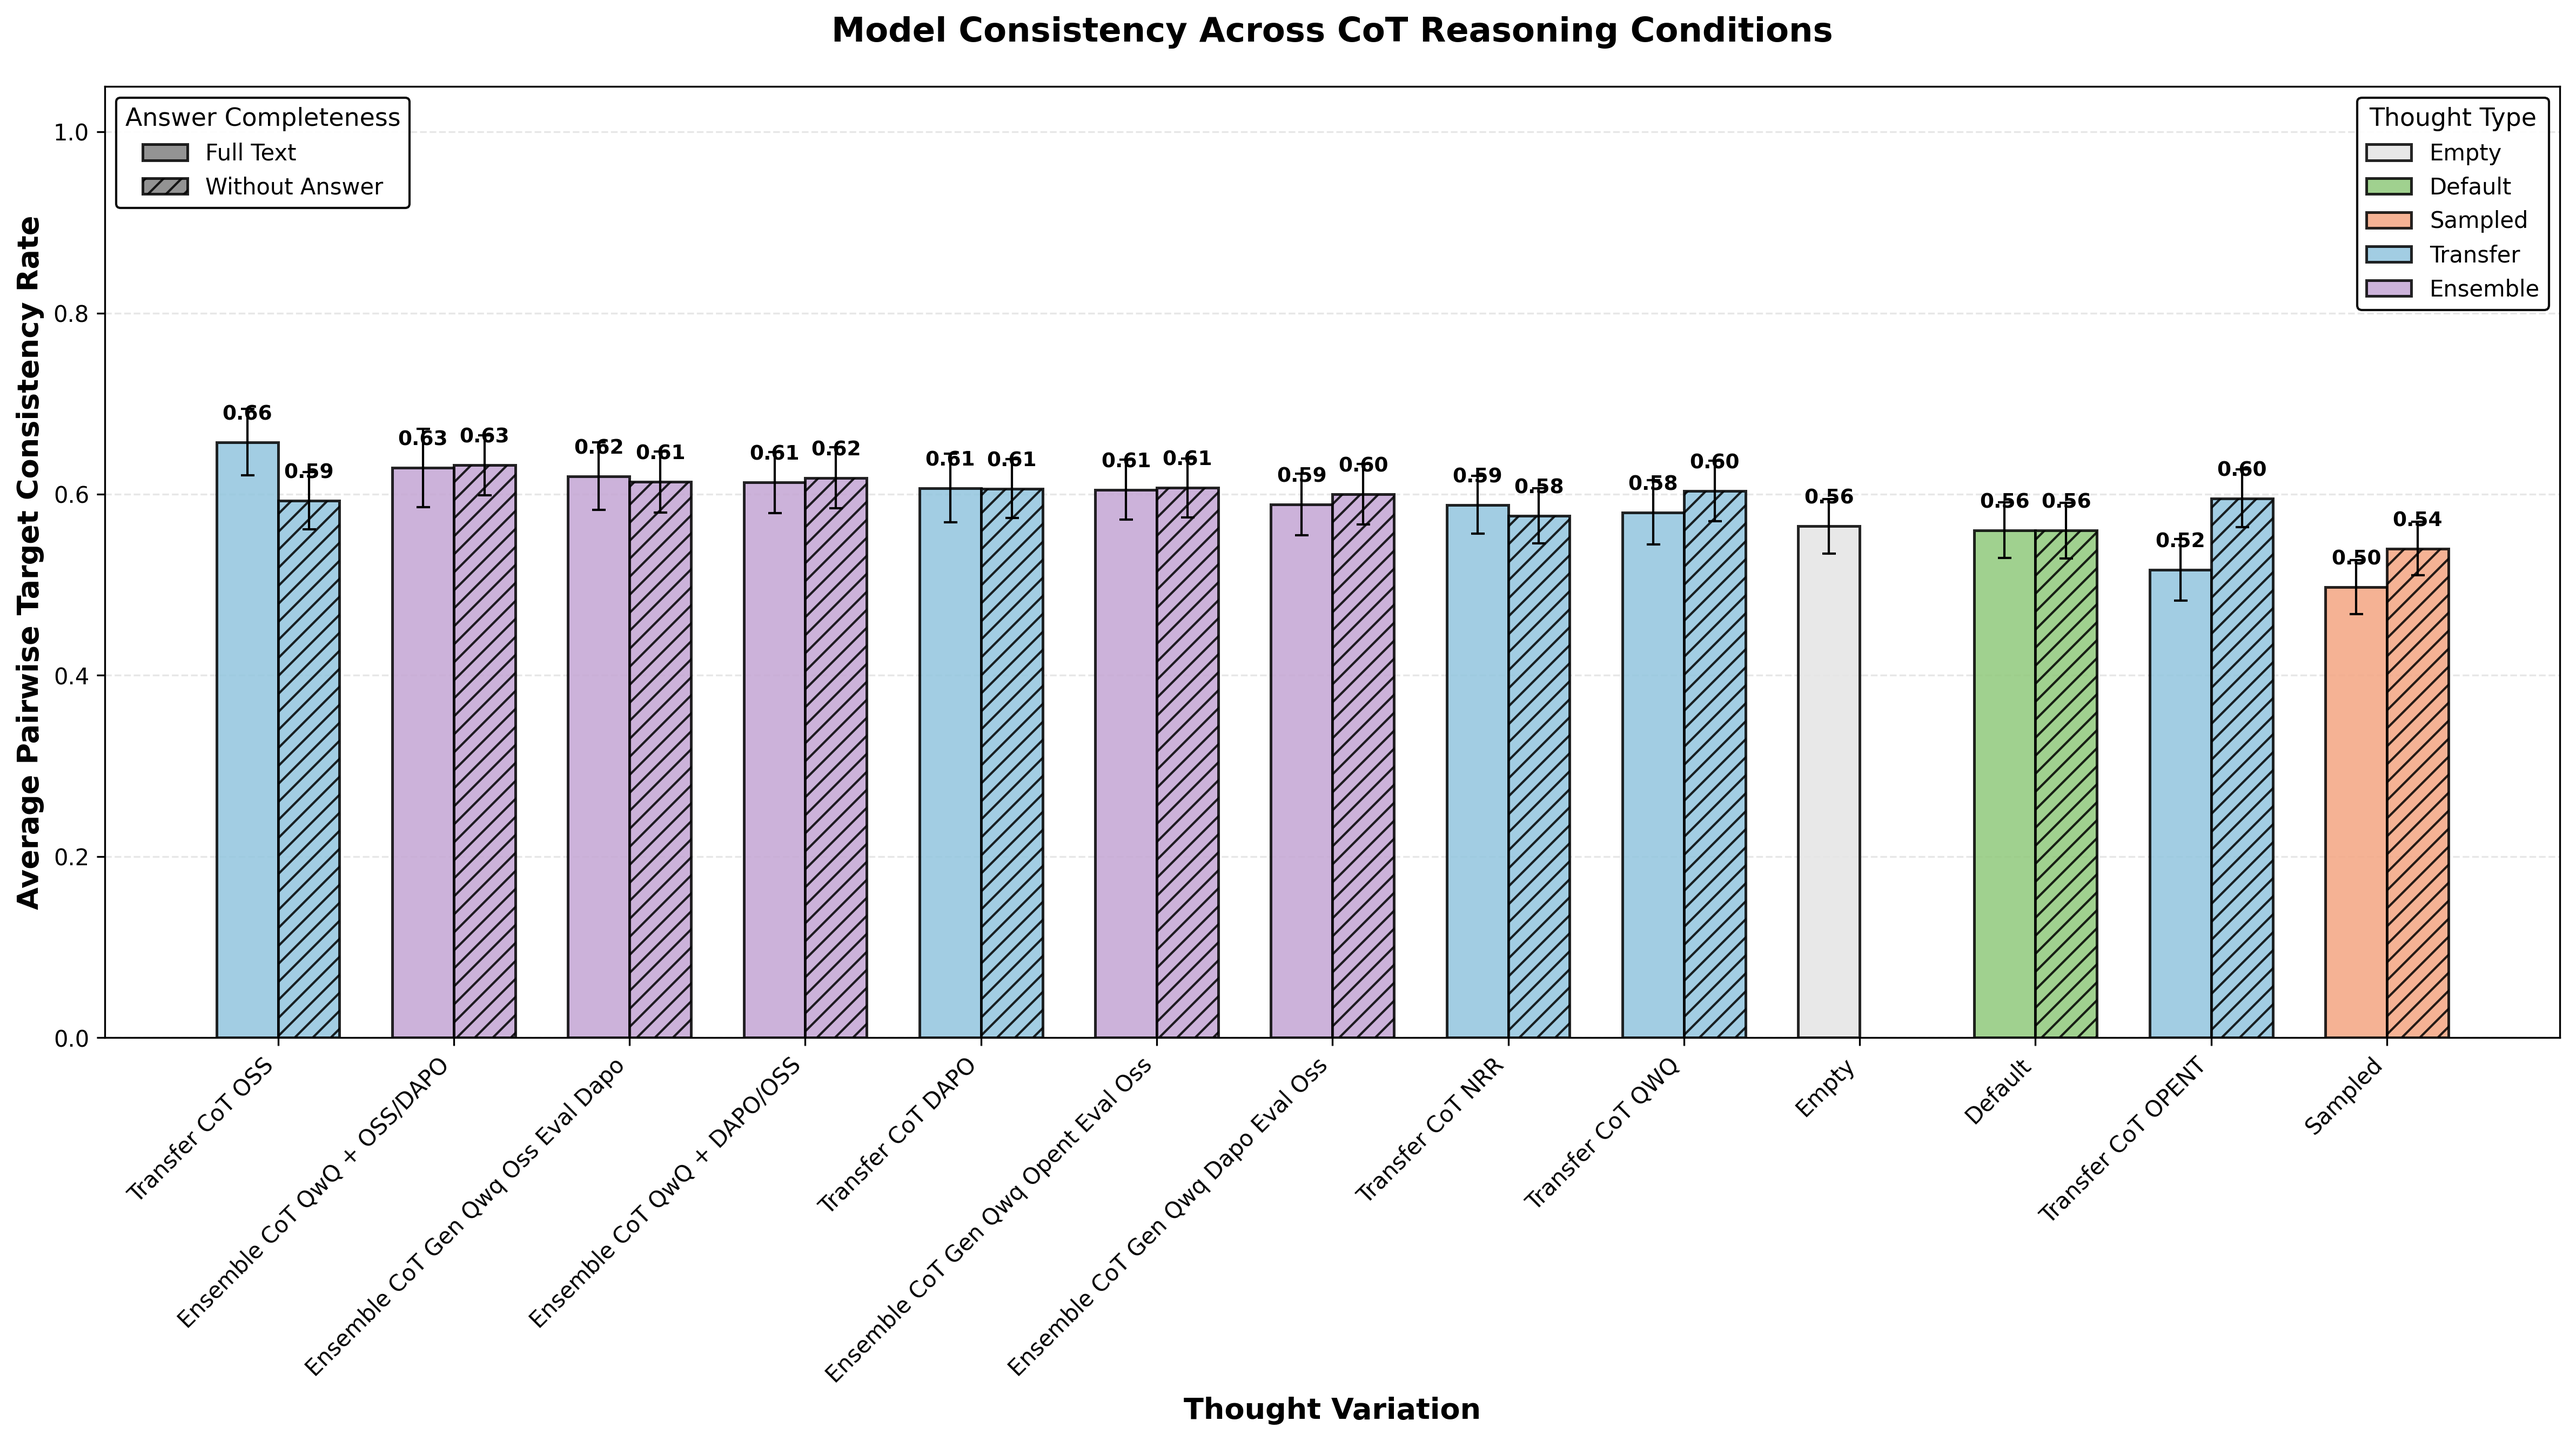
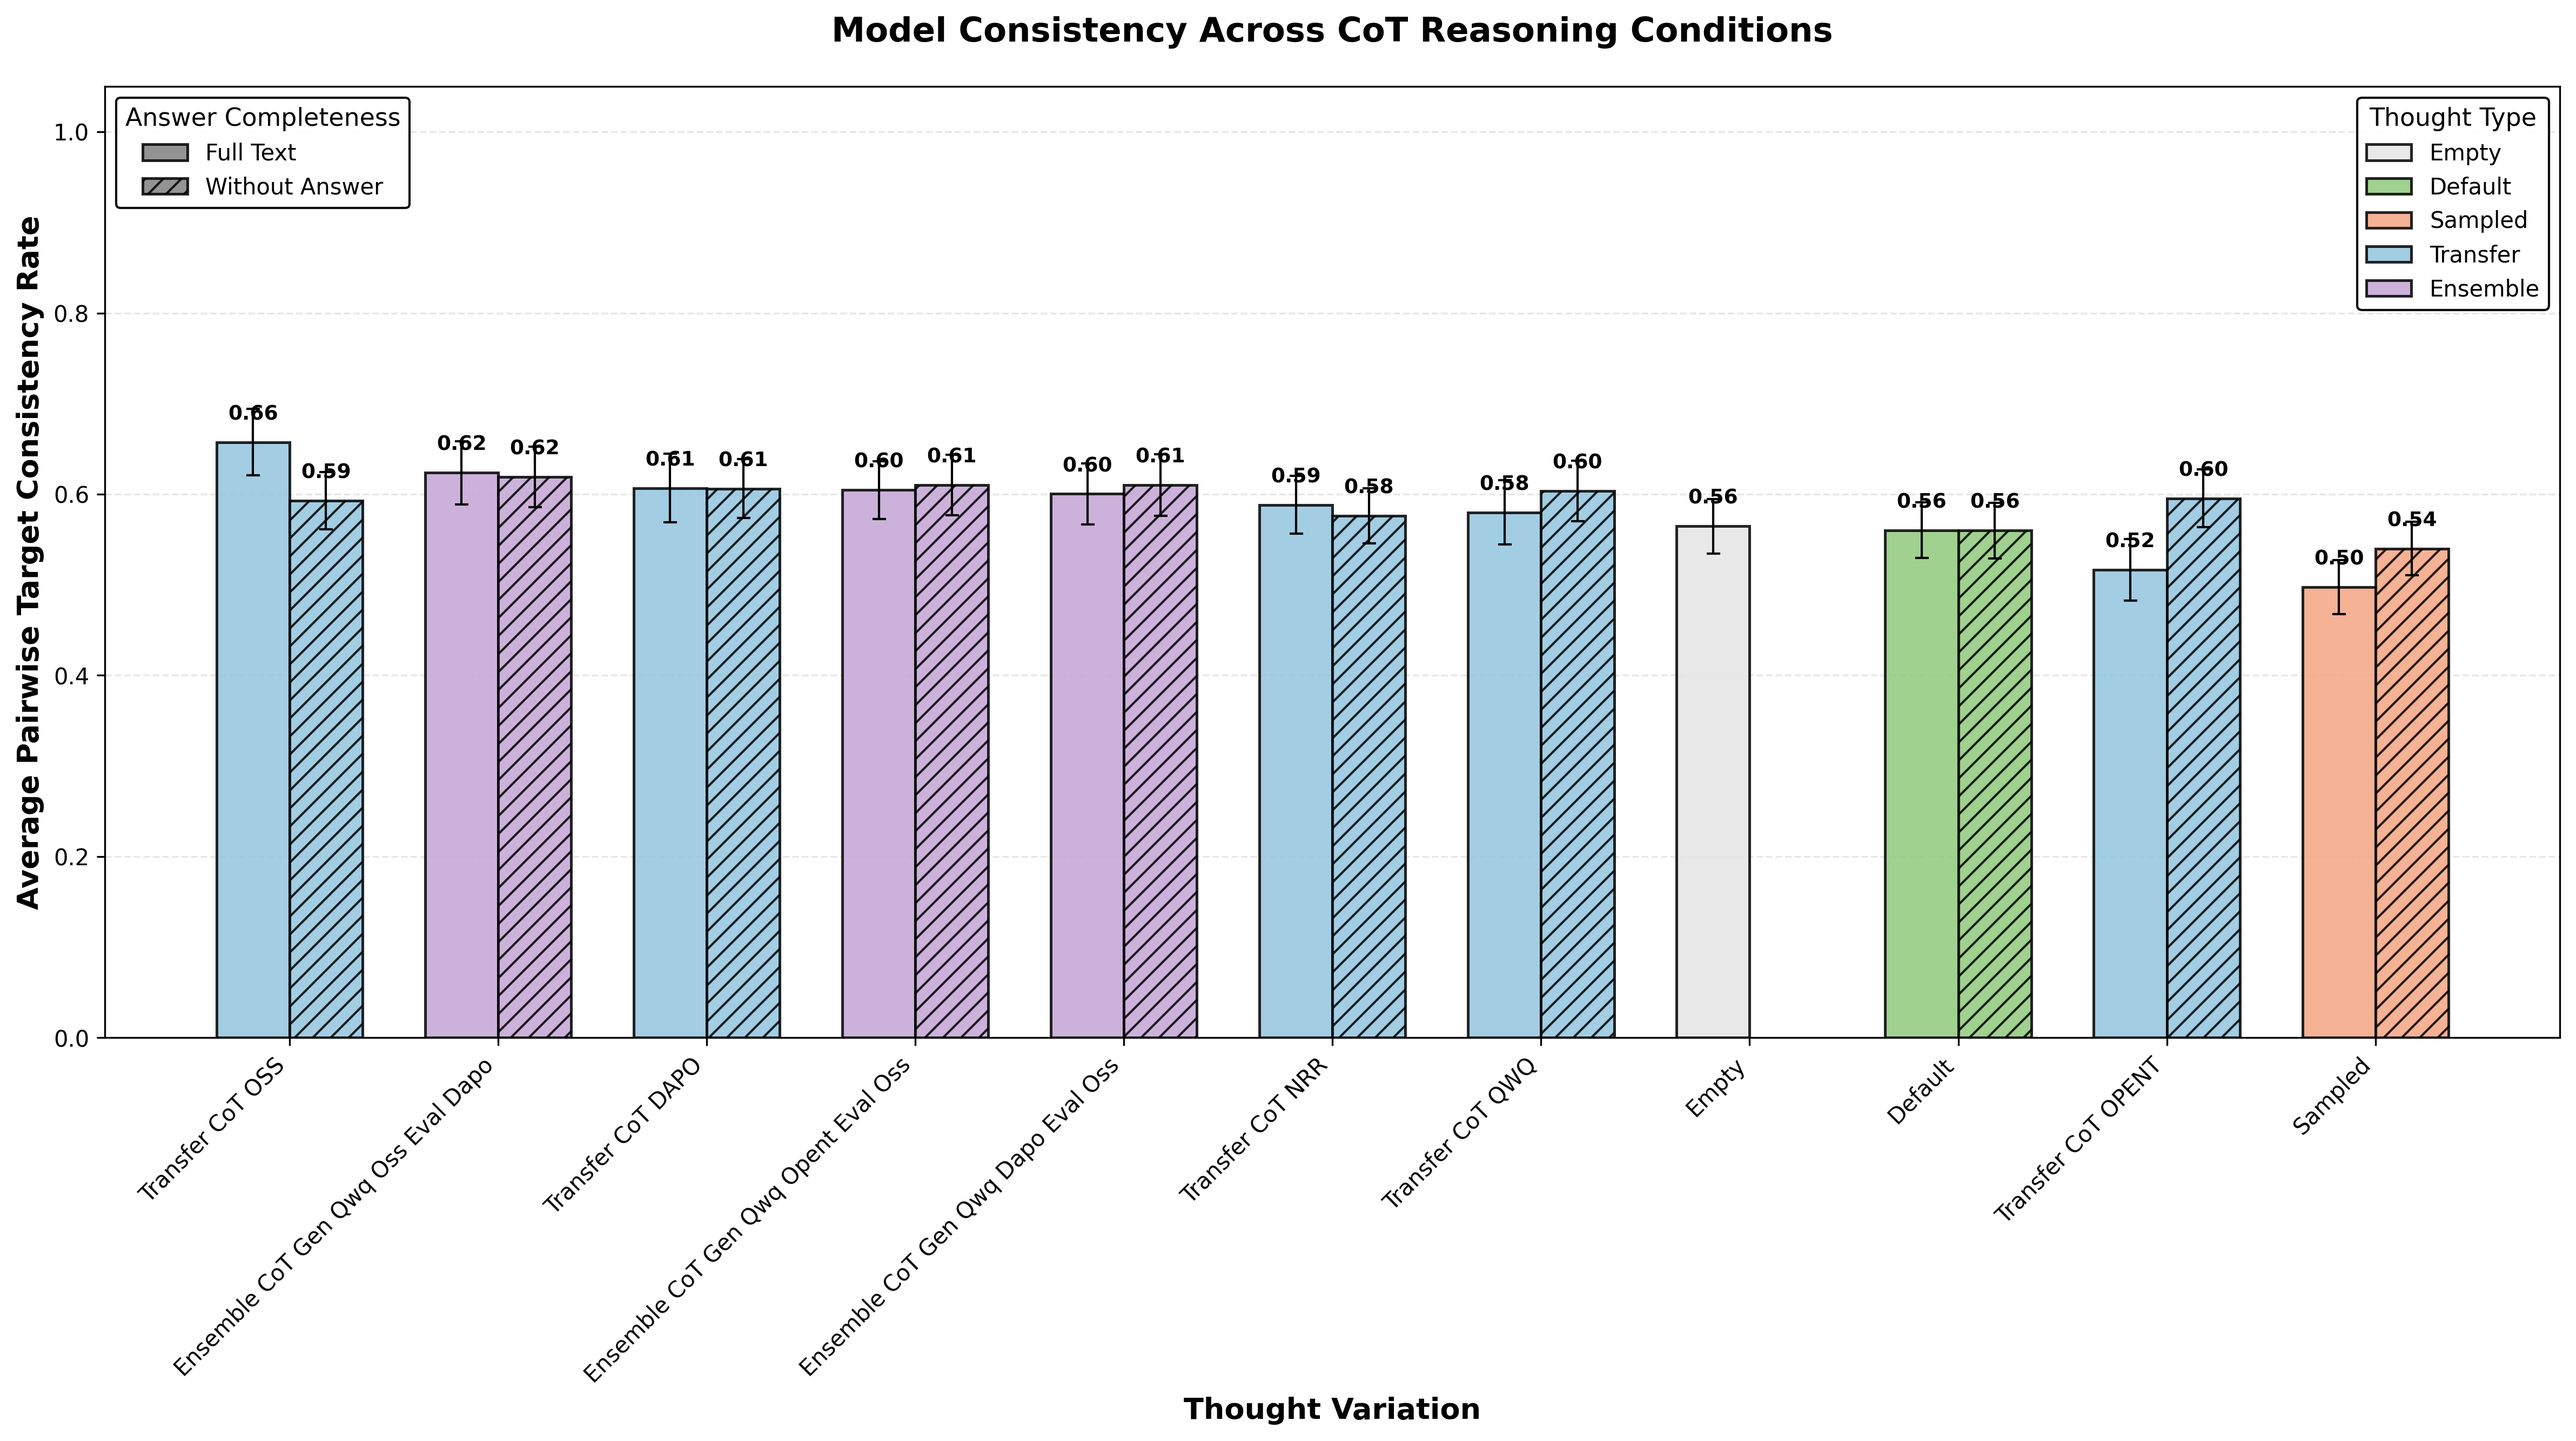
resolved ensemble

diff --git a/consistency_visualization.py b/consistency_visualization.py
@@ -35,13 +35,20 @@ def parse_configuration_label(model, condition, answer_condition):
     condition_lower = condition.lower()
     
     if 'ensemble' in condition_lower:
-        if 'dapo' in model.lower() and 'qwq' in condition_lower:
-            return 'Ensemble CoT QwQ + DAPO/OSS'
-        elif 'opent' in model.lower() and 'qwq' in condition_lower:
-            return 'Ensemble CoT QwQ + OpenT/OSS'
-        elif 'oss' in model.lower() and 'dapo' in condition_lower:
-            return 'Ensemble CoT QwQ + OSS/DAPO'
+        # Parse model name format: gen_model1_model2_eval_model3
+        # e.g., 'gen_qwq_dapo_eval_oss' -> sources: [qwq, dapo], eval: oss
+        if 'eval_' in model.lower():
+            parts = model.lower().split('eval_')
+            eval_model = parts[1].upper()
+            
+            # Extract gen models
+            gen_part = parts[0].replace('gen_', '').rstrip('_')
+            gen_models = [m.upper() for m in gen_part.split('_')]
+            
+            source_models = ' + '.join(gen_models)
+            return f'Ensemble CoT {source_models} / {eval_model}'
         else:
+            # Fallback to old logic
             return f'Ensemble CoT {condition.replace("ensemble_", "").replace("_", " ").title()}'
     
     elif 'transfer' in condition_lower:
@@ -58,7 +65,6 @@ def parse_configuration_label(model, condition, answer_condition):
         return 'Sampled'
     
     return condition.replace('_', ' ').title()
-
 
 def determine_thought_type(condition):
     """Determine the thought type category for coloring."""
